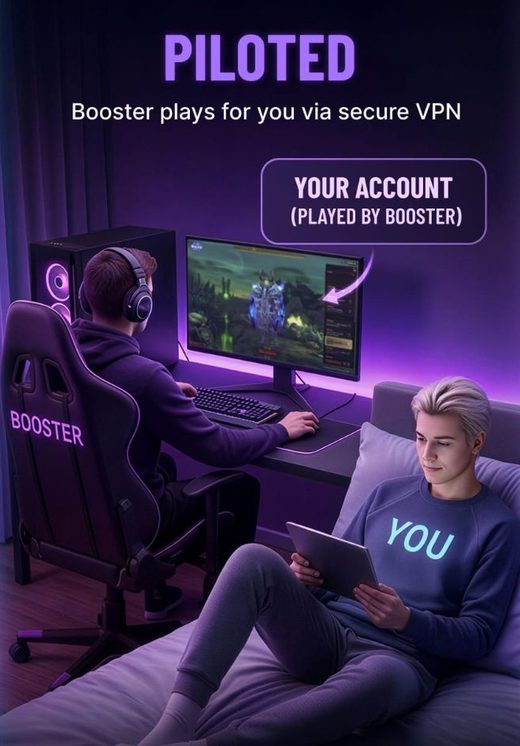
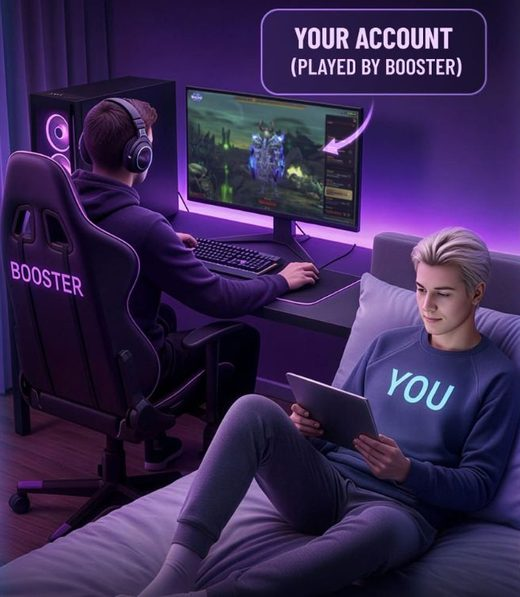
Compare methods: crop the title and subtitle off the pictures, shorter images
Claude-Session: https://claude.ai/code/session_01CR8EpZ2gRpvxcSNjHBS7tx

diff --git a/styles.css b/styles.css
@@ -833,3 +833,7 @@ h2.sec,.rev-head h2,.seo h2{font:800 var(--fs-h2)/var(--lh-h2) var(--font);lette
 .cmpimg{aspect-ratio:1/1}
 @media (min-width:768px){.sheet.wide .panel{max-height:min(90vh,780px)}}
 @media (max-width:767px){.cmpimg{aspect-ratio:16/10}}
+.cmpimg{aspect-ratio:5/4;object-position:50% 40%}
+@media (max-width:767px){.cmpimg{aspect-ratio:16/10;object-position:50% 45%}}
+.cmpimg{aspect-ratio:11/10;object-position:50% 0}
+@media (max-width:767px){.cmpimg{aspect-ratio:16/10;object-position:50% 0}}
